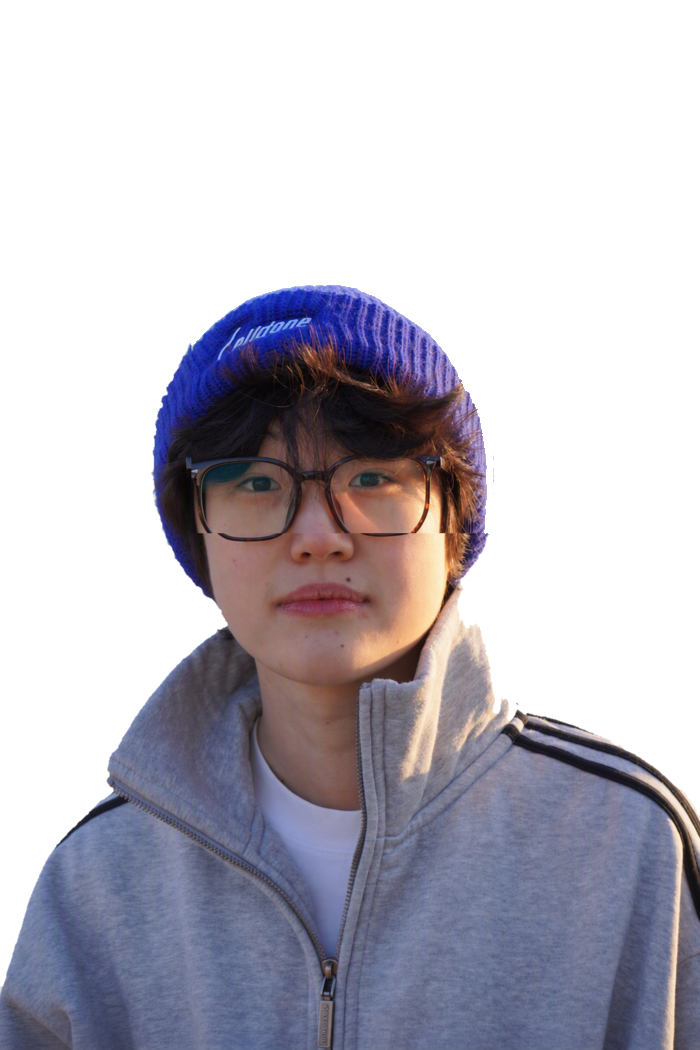
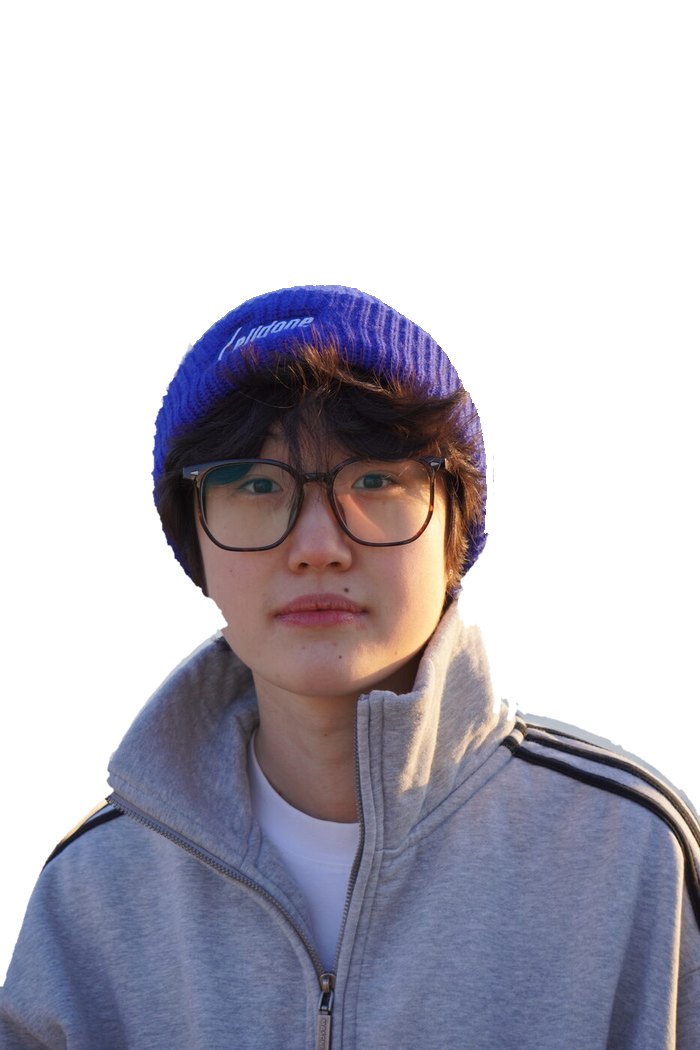
Refine project section and fix portrait

diff --git a/index.html b/index.html
@@ -127,24 +127,32 @@
     .role .company{font-family:var(--mono);font-size:11px;letter-spacing:.14em;color:var(--gold);text-transform:uppercase;margin-bottom:4px}
     .role h3{font-family:var(--serif);font-size:24px;font-weight:500;margin-bottom:10px}
     .role p{color:var(--muted);max-width:680px}
-    .edu-grid{display:grid;grid-template-columns:1fr 1fr;gap:30px;margin-top:80px;padding-left:220px}
+    .education{margin-top:80px;padding-left:220px}
+    .subsection-label{font:11px var(--mono);letter-spacing:.18em;color:var(--gold);text-transform:uppercase;margin-bottom:18px}
+    .edu-grid{display:grid;grid-template-columns:1fr 1fr;gap:30px}
     .edu{padding:24px;background:var(--canvas-warm);border-left:3px solid var(--peacock)}
     .edu .meta{font:11px var(--mono);color:var(--peacock);letter-spacing:.12em;text-transform:uppercase;margin-bottom:6px}
     .edu h3{font-family:var(--serif);font-size:24px;font-weight:500;margin-bottom:6px}
     .edu p{color:var(--muted);font-size:14px}
 
     /* projects */
-    .projects{margin-top:90px}
-    .projects-head{font-family:var(--serif);font-size:32px;font-weight:500;margin-bottom:36px;display:flex;align-items:baseline;gap:18px;flex-wrap:wrap}
-    .projects-head span{font-family:var(--mono);font-size:11px;letter-spacing:.16em;color:var(--muted);text-transform:uppercase}
-    .projects-grid{display:grid;grid-template-columns:repeat(3,1fr);gap:24px}
-    .project{padding:28px 26px;background:var(--canvas-warm);border-top:3px solid var(--peacock);transition:transform .3s,box-shadow .3s}
-    .project:nth-child(3n+2){border-top-color:var(--gold)}
-    .project:nth-child(3n){border-top-color:var(--clay)}
-    .project:hover{transform:translateY(-4px);box-shadow:0 20px 40px -20px rgba(15,95,121,.2)}
-    .project .meta{font:11px var(--mono);color:var(--peacock);letter-spacing:.1em;text-transform:uppercase;margin-bottom:10px}
-    .project h4{font-family:var(--serif);font-size:22px;font-weight:500;margin-bottom:10px}
-    .project p{font-size:13.5px;color:var(--ink-soft);line-height:1.78}
+    .projects{margin-top:100px;border-top:1px solid var(--line-strong);padding-top:28px}
+    .projects-head{display:grid;grid-template-columns:220px 1fr;gap:36px;margin-bottom:22px}
+    .projects-head h3{font-family:var(--serif);font-size:34px;font-weight:500;line-height:1.2}
+    .projects-head p{max-width:560px;color:var(--muted);font-size:14px}
+    .projects-list{border-bottom:1px solid var(--line-strong)}
+    .project{border-top:1px solid var(--line);transition:background .25s}
+    .project:first-child{border-top-color:var(--line-strong)}
+    .project:hover,.project[open]{background:var(--canvas-warm)}
+    .project summary{list-style:none;display:grid;grid-template-columns:52px minmax(260px,1.4fr) minmax(180px,.8fr) minmax(130px,.55fr) 24px;gap:22px;align-items:center;padding:24px 18px;cursor:pointer}
+    .project summary::-webkit-details-marker{display:none}
+    .project-no{font:italic 24px var(--serif);color:var(--gold)}
+    .project-title h4{font-family:var(--serif);font-size:21px;font-weight:500;line-height:1.3}
+    .project-title span,.project-role{font:10px var(--mono);letter-spacing:.09em;color:var(--muted);text-transform:uppercase}
+    .project-result{font-family:var(--serif);font-size:17px;color:var(--peacock-dk);line-height:1.35}
+    .project-toggle{font-size:20px;color:var(--gold);transition:transform .25s}
+    .project[open] .project-toggle{transform:rotate(45deg)}
+    .project-detail{margin:0 42px 0 92px;padding:0 0 26px;max-width:720px;color:var(--ink-soft);font-size:14px;line-height:1.8}
 
     /* capabilities */
     .cap-wrap{background:var(--canvas-warm);padding:120px 0}
@@ -229,8 +237,13 @@
       .timeline-wrap::before{left:0}
       .role{grid-template-columns:1fr;gap:8px;padding-left:22px}
       .role::before{left:-4px;top:14px}
-      .edu-grid{grid-template-columns:1fr;padding-left:22px}
-      .projects-grid{grid-template-columns:1fr}
+      .education{padding-left:22px}
+      .edu-grid{grid-template-columns:1fr}
+      .projects-head{grid-template-columns:1fr;gap:8px}
+      .project summary{grid-template-columns:38px 1fr 24px;gap:12px;padding:20px 10px}
+      .project-role,.project-result{grid-column:2}
+      .project-toggle{grid-column:3;grid-row:1 / span 3}
+      .project-detail{margin:0 24px 0 60px}
       .skills{grid-template-columns:1fr}
       .life-lead{grid-template-columns:1fr;grid-auto-rows:240px}
       .life-lead figure,.life-lead figure:nth-child(2),.life-lead figure:nth-child(3){grid-row:span 1}
@@ -365,39 +378,22 @@
       <article class="role reveal"><time>2024.10 — 2025.01</time><div class="role-body"><div class="company">中航成飞研究所 · 经管中心</div><h3>前沿研究员</h3><p>搭建多模型集成预测框架，并将算法封装为面向工程人员的可视化决策辅助工具，完成从模型到可用软件的闭环。</p></div></article>
       <article class="role reveal"><time>2023.10 — 2026.12</time><div class="role-body"><div class="company">作业帮 · 线上业务中心</div><h3>运营实习生</h3><p>以漏斗与归因分析定位新人培训、留存问题，协助重构流程与运营策略，推动结训通过率环比提升约 5pp。</p></div></article>
     </div>
-    <div class="projects reveal">
-      <h3 class="projects-head">项目经历 <span>Selected Projects · 2022 — 2024</span></h3>
-      <div class="projects-grid">
-        <article class="project">
-          <div class="meta">2023.06 — 2024.06 · 校园创业 · 联合创始人</div>
-          <h4>奇奇妙妙摄影工作室</h4>
-          <p>洞察毕业季"个性化写真 + 一站式服务"的需求缺口，确立以定制服务为核心的产品定位，设计灵活定价与"团体预约 88 折"等策略；搭建客服、摄影、后勤三级协作体系，两年毕业季累计盈利 12000+ 元、完成 30+ 订单，好评率 100%。</p>
-        </article>
-        <article class="project">
-          <div class="meta">2023.03 — 2023.07 · 产品全链路 · 项目负责人</div>
-          <h4>智慧学工系统分析与设计</h4>
-          <p>拆解 12 类核心业务流程，输出 20+ 页 PRD 与交互原型，设计数据埋点方案与学生画像标签体系；基于低代码平台搭建模块化组件库（复用率超 70%）与 8 项核心指标实时看板，并开发智能问答机器人。</p>
-        </article>
-        <article class="project">
-          <div class="meta">2023.03 — 2023.05 · 机器学习商分 · 项目负责人</div>
-          <h4>客户行为分析与认购预测</h4>
-          <p>整合 3 万+ 银行客户画像、营销行为与宏观经济指标，通过多维可视化与 EDA 识别转化关键节点；基于 Python 对比多类预测模型，验证集准确率 90%+，并据特征重要性提出差异化触达策略，预计降低无效触达成本约 20%。</p>
-        </article>
-        <article class="project">
-          <div class="meta">2023.01 — 2023.04 · 正大杯 · 数据分析负责人</div>
-          <h4>新零售私域流量运营及策略分析</h4>
-          <p>基于 400+ 问卷与用户行为数据，结合 AARRR / AISAS 模型拆解用户从入群到转化、分享的关键影响因素；主导构建购买行为预测模型，输出降低无效推送频次、以专属权益替代拉新等可落地的社群运营策略。</p>
-        </article>
-        <article class="project">
-          <div class="meta">2022.09 — 2022.11 · 全栈开发 · 项目负责人</div>
-          <h4>旅游攻略类搜索引擎</h4>
-          <p>针对"信息失真、更新滞后"痛点，从 0 到 1 设计垂直检索产品框架并牵头前后端联动落地；搭建 ElasticSearch 检索平台，独立完成万级异构数据清洗入库与打分逻辑配置，前端渲染延迟 &lt;0.5s，结果可用率 95%+。</p>
-        </article>
+    <div class="education reveal">
+      <div class="subsection-label">Education</div>
+      <div class="edu-grid">
+        <article class="edu"><div class="meta">2024 — 2027 · Master</div><h3>电子科技大学</h3><p>管理科学与工程 · GPA 3.96 / 4.0<br>研究方向：运筹优化、强化学习</p></article>
+        <article class="edu"><div class="meta">2020 — 2024 · Bachelor</div><h3>南京航空航天大学</h3><p>信息管理与信息系统 · GPA 前 5%<br>国家级竞赛奖 2 项、省级 4 项</p></article>
       </div>
     </div>
-    <div class="edu-grid">
-      <article class="edu reveal"><div class="meta">2024 — 2027 · Master</div><h3>电子科技大学</h3><p>管理科学与工程 · GPA 3.96 / 4.0<br>研究方向：运筹优化、强化学习</p></article>
-      <article class="edu reveal"><div class="meta">2020 — 2024 · Bachelor</div><h3>南京航空航天大学</h3><p>信息管理与信息系统 · GPA 前 5%<br>国家级竞赛奖 2 项、省级 4 项</p></article>
+    <div class="projects reveal">
+      <div class="projects-head"><h3>项目选集</h3><p>课堂之外做过的一些真实项目。一级页面只保留角色与结果，展开可查看方法和过程。</p></div>
+      <div class="projects-list">
+        <details class="project"><summary><span class="project-no">01</span><span class="project-title"><span>2023.06 — 2024.06</span><h4>奇奇妙妙摄影工作室</h4></span><span class="project-role">校园创业 · 联合创始人</span><strong class="project-result">盈利 12,000+<br>好评率 100%</strong><span class="project-toggle" aria-hidden="true">+</span></summary><p class="project-detail">洞察毕业季“个性化写真 + 一站式服务”的需求缺口，确立定制服务定位，设计灵活定价与团体预约策略，并搭建客服、摄影、后勤三级协作体系，累计完成 30+ 订单。</p></details>
+        <details class="project"><summary><span class="project-no">02</span><span class="project-title"><span>2023.03 — 2023.07</span><h4>智慧学工系统分析与设计</h4></span><span class="project-role">产品全链路 · 项目负责人</span><strong class="project-result">20+ 页 PRD<br>组件复用 70%+</strong><span class="project-toggle" aria-hidden="true">+</span></summary><p class="project-detail">拆解 12 类核心业务流程，输出 PRD 与交互原型，设计数据埋点及学生画像标签体系；基于低代码平台搭建模块化组件库、8 项核心指标看板与智能问答机器人。</p></details>
+        <details class="project"><summary><span class="project-no">03</span><span class="project-title"><span>2023.03 — 2023.05</span><h4>客户行为分析与认购预测</h4></span><span class="project-role">机器学习商分 · 项目负责人</span><strong class="project-result">准确率 90%+<br>无效触达 -20%</strong><span class="project-toggle" aria-hidden="true">+</span></summary><p class="project-detail">整合 3 万+ 银行客户画像、营销行为与宏观经济指标，通过 EDA 识别转化关键节点；使用 Python 对比多类预测模型，并基于特征重要性提出差异化触达策略。</p></details>
+        <details class="project"><summary><span class="project-no">04</span><span class="project-title"><span>2023.01 — 2023.04</span><h4>新零售私域流量运营分析</h4></span><span class="project-role">正大杯 · 数据分析负责人</span><strong class="project-result">400+ 问卷<br>AARRR / AISAS</strong><span class="project-toggle" aria-hidden="true">+</span></summary><p class="project-detail">结合问卷与用户行为数据拆解从入群到转化、分享的关键影响因素，主导构建购买行为预测模型，输出减少无效推送、以专属权益替代拉新等社群运营策略。</p></details>
+        <details class="project"><summary><span class="project-no">05</span><span class="project-title"><span>2022.09 — 2022.11</span><h4>旅游攻略类搜索引擎</h4></span><span class="project-role">全栈开发 · 项目负责人</span><strong class="project-result">响应 &lt;0.5s<br>可用率 95%+</strong><span class="project-toggle" aria-hidden="true">+</span></summary><p class="project-detail">从 0 到 1 设计垂直检索产品，搭建 ElasticSearch 检索平台，独立完成万级异构数据清洗入库、打分逻辑配置与前端联动。</p></details>
+      </div>
     </div>
   </div></section>
 
